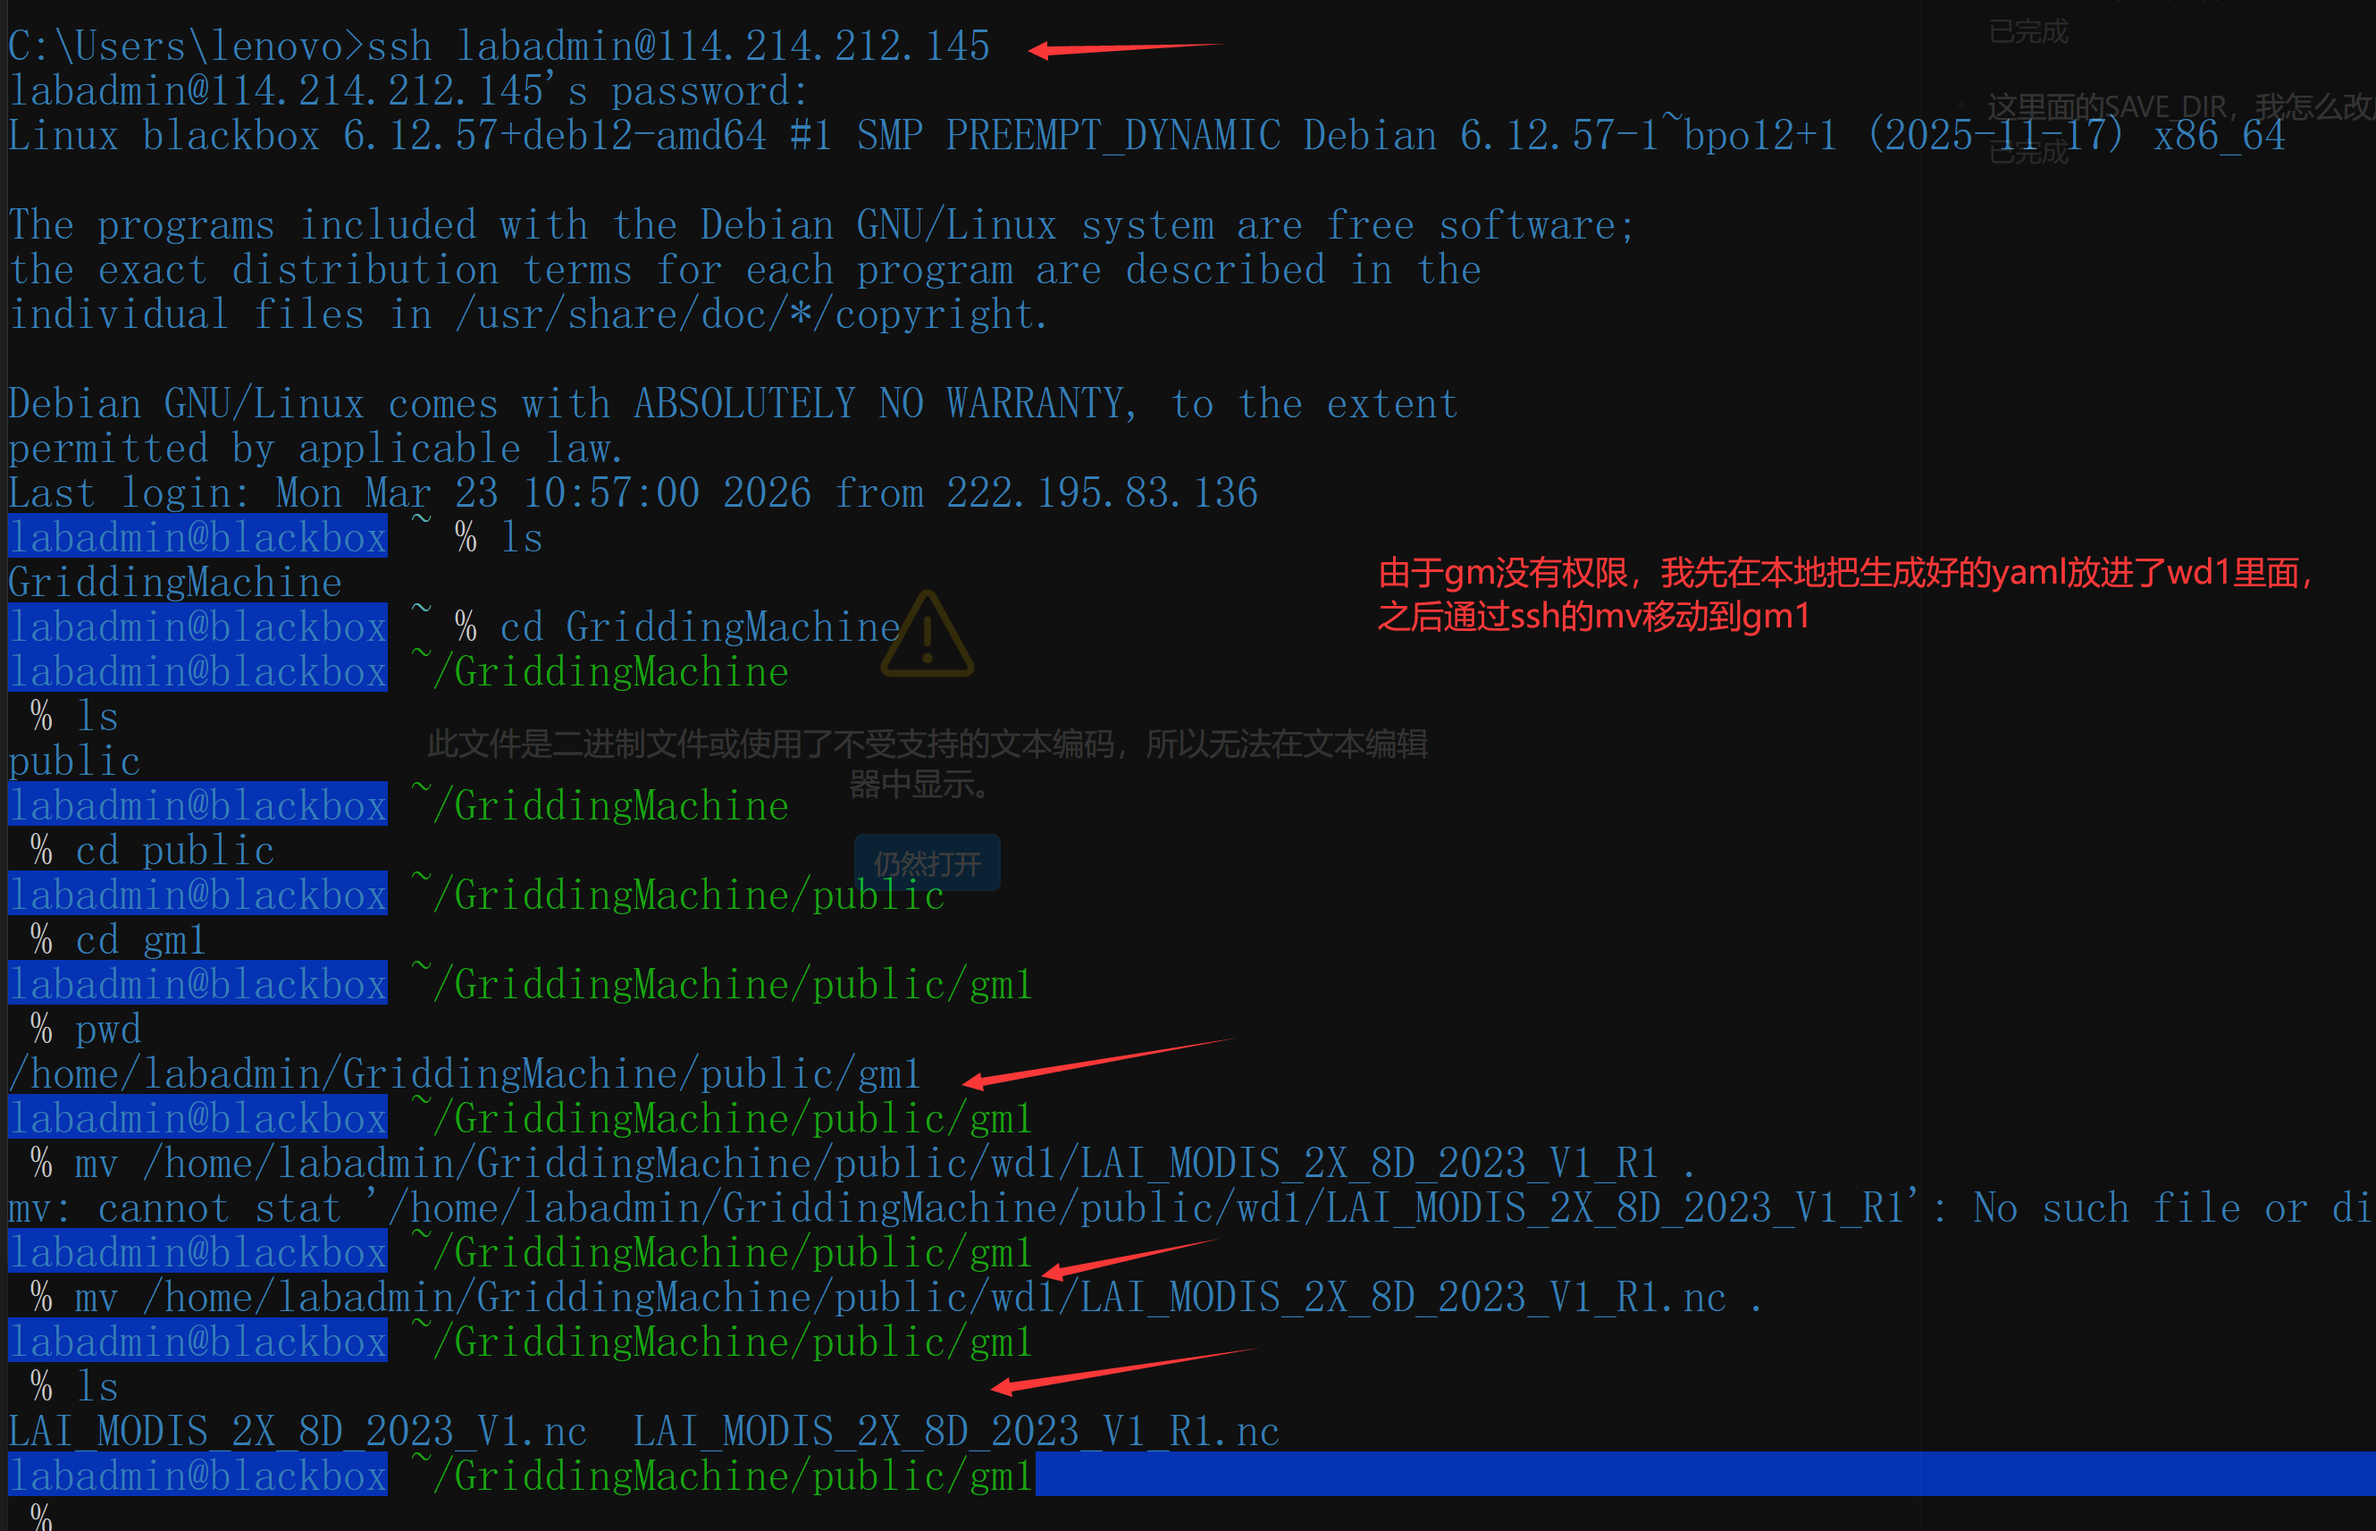
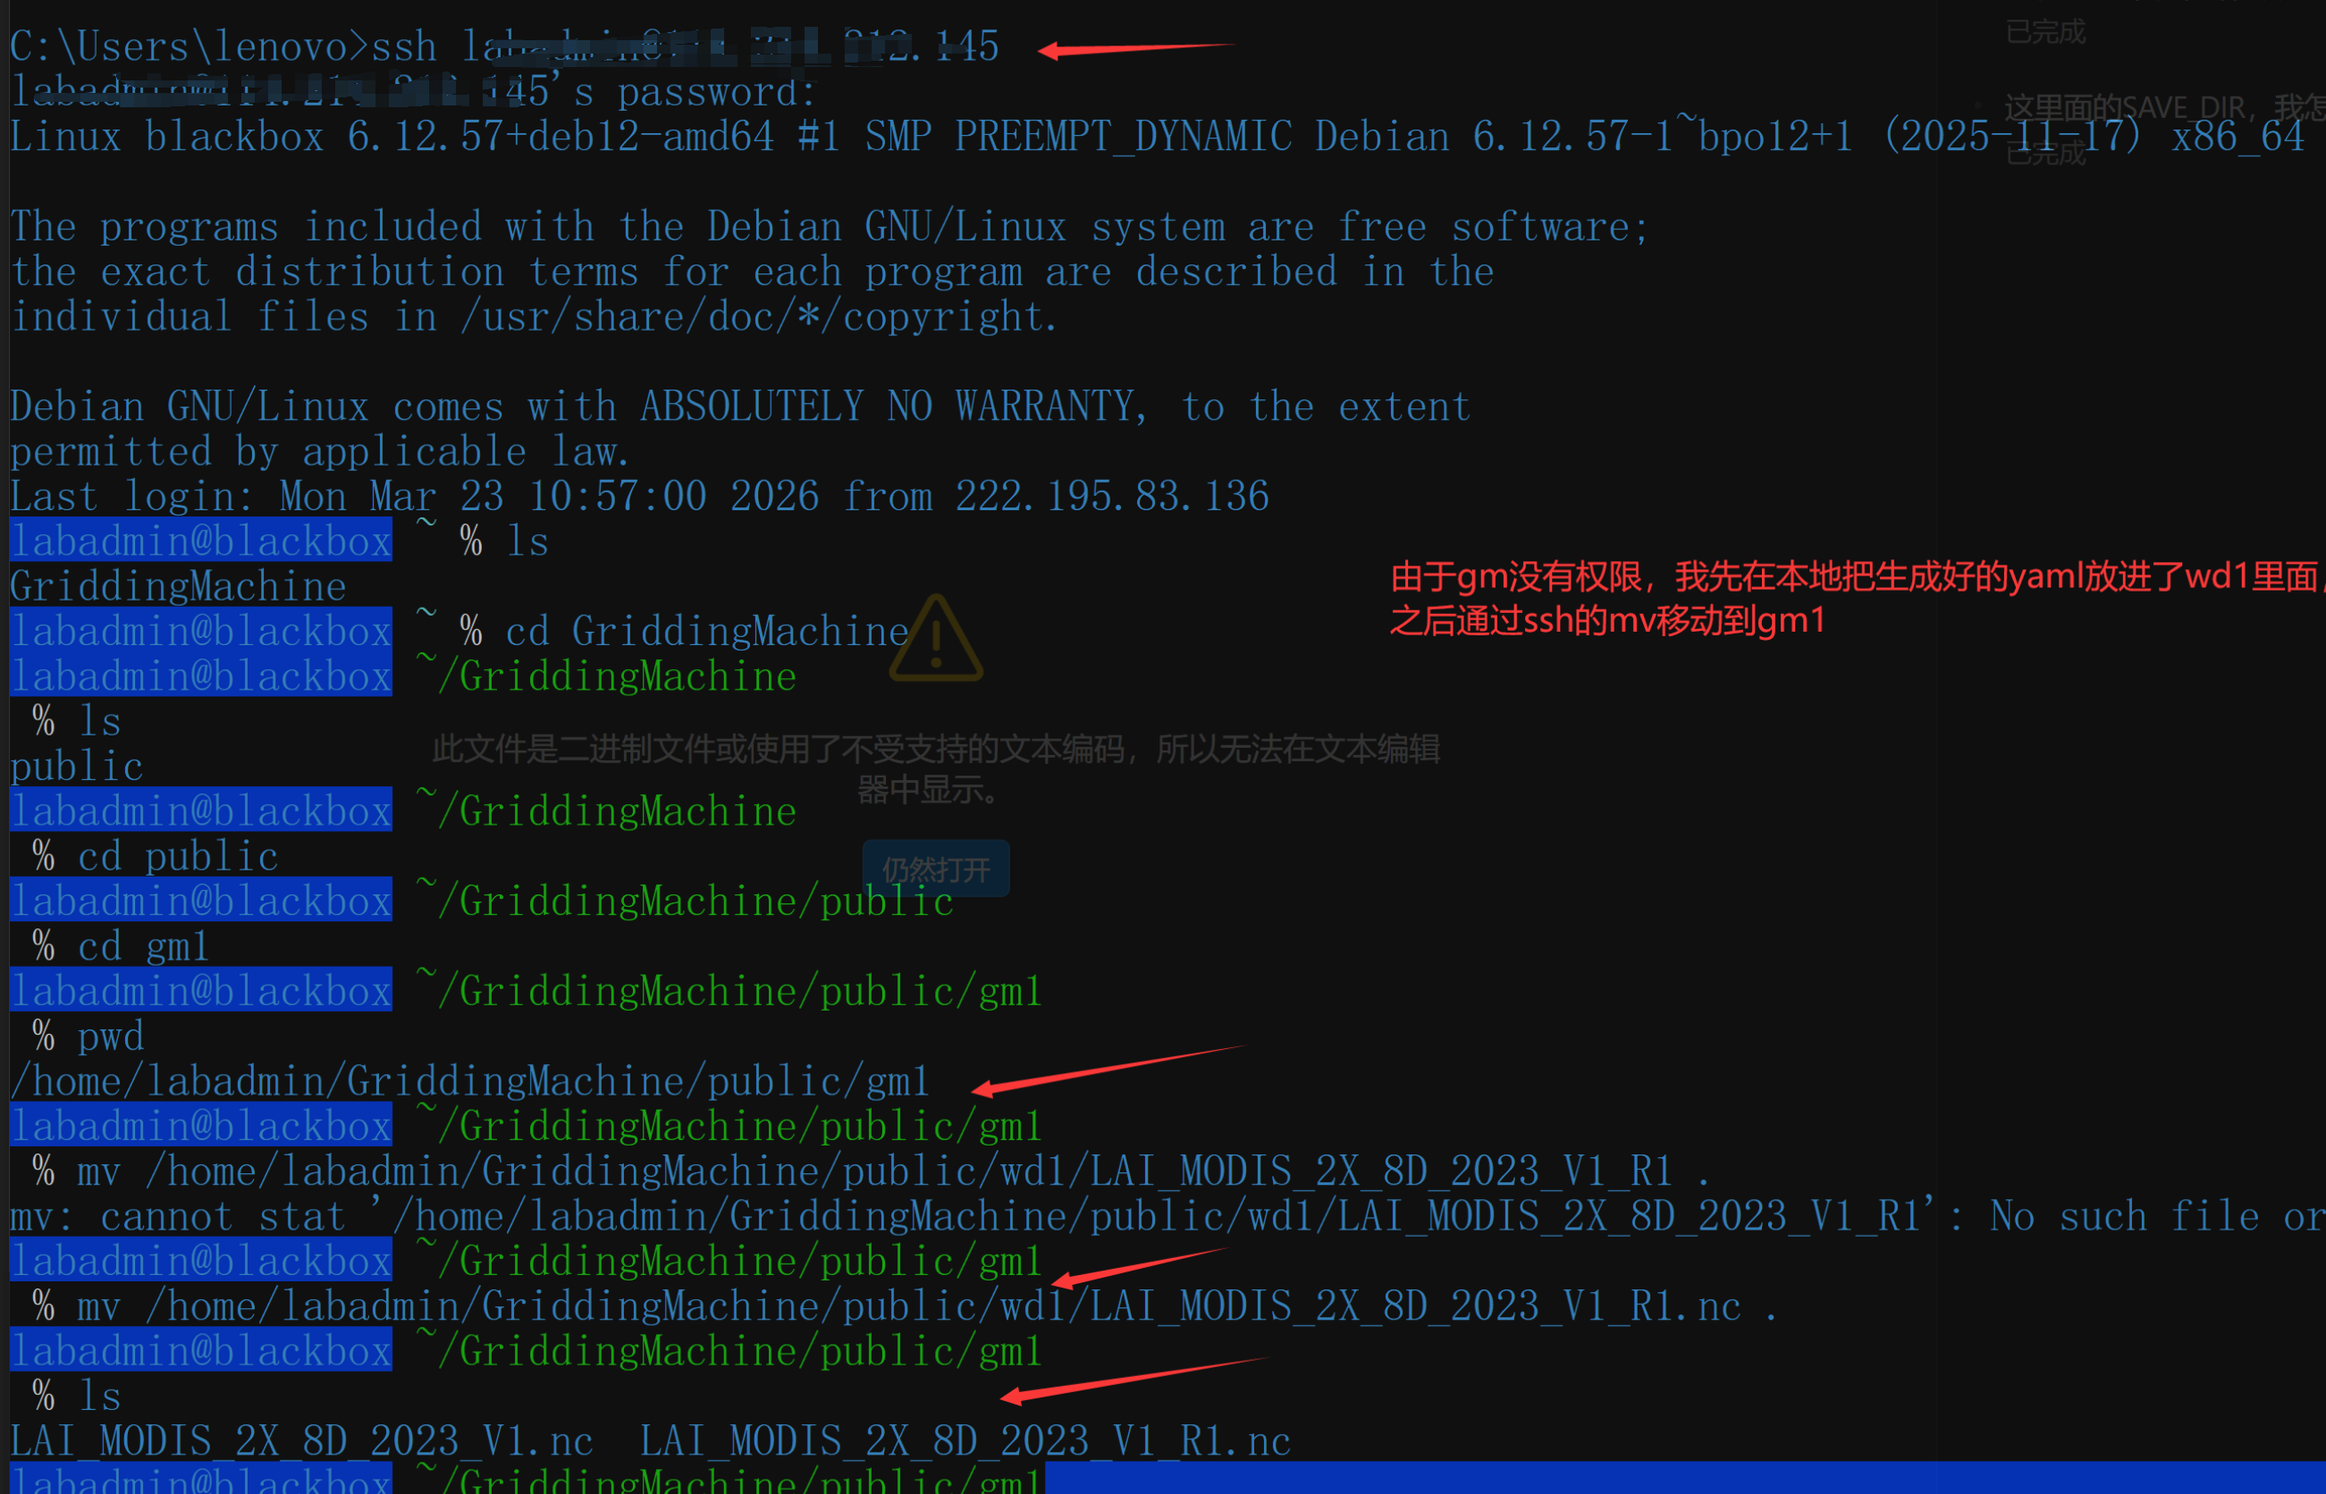
update

Changed region(s): [[0.0, 0.2488, 1.0, 1.0], [0.0, 0.0, 1.0, 0.2177], [0.5603, 0.3421, 0.9962, 0.4354]]

diff --git a/yaml_pipeline.md b/yaml_pipeline.md
@@ -151,7 +151,7 @@ GRIDDINGMACHINE:
 ## 二、 写入./GriddingMachineDatasets/Artifacts.yaml
 其中ftp地址为：ftp://114.214.212.145/GriddingMachine/public/ 后面为自定义放置的文件位置
 
-![alt text](image-7.png)
+![alt text](image-5.png)
 ![alt text](image-6.png)
 
 **exmaple：**
